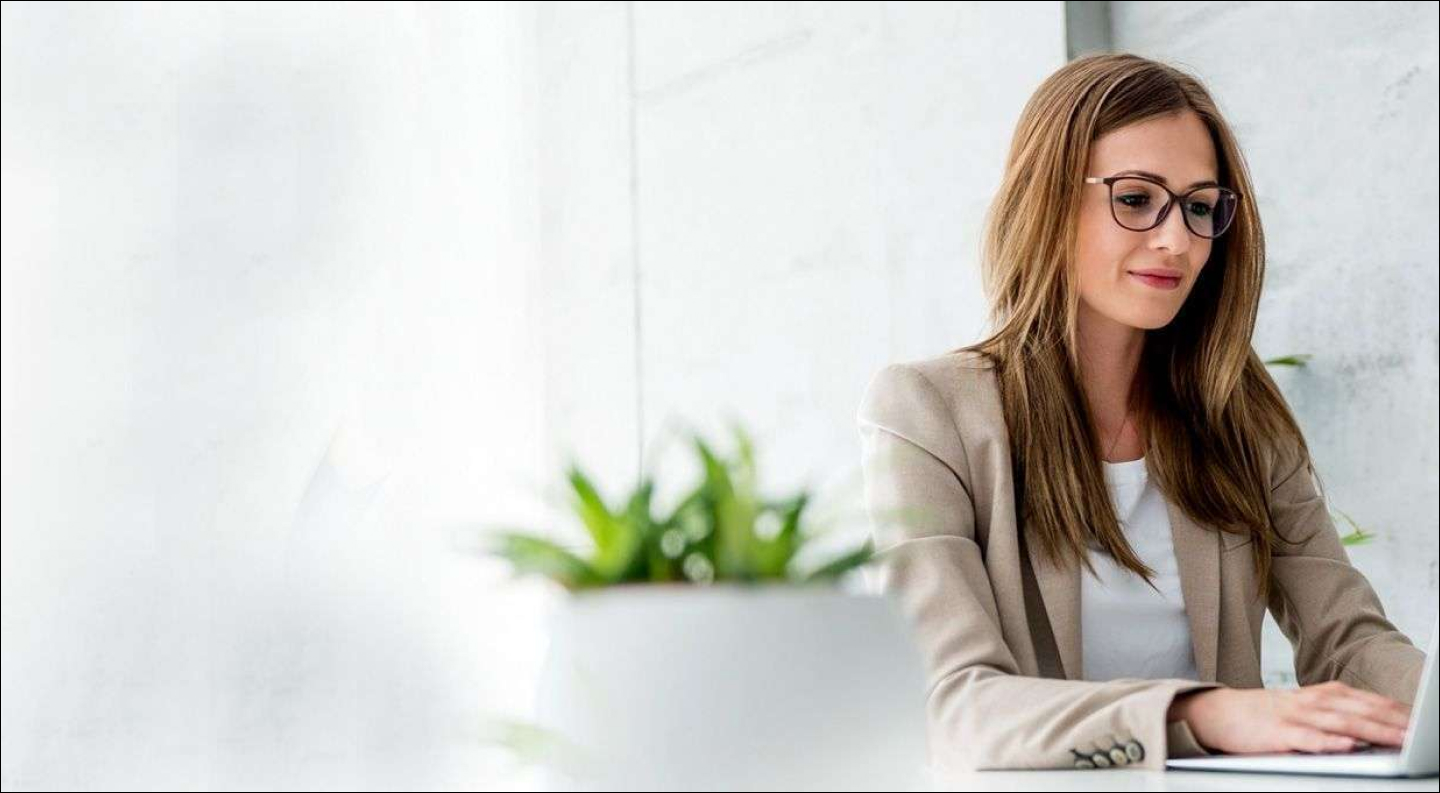
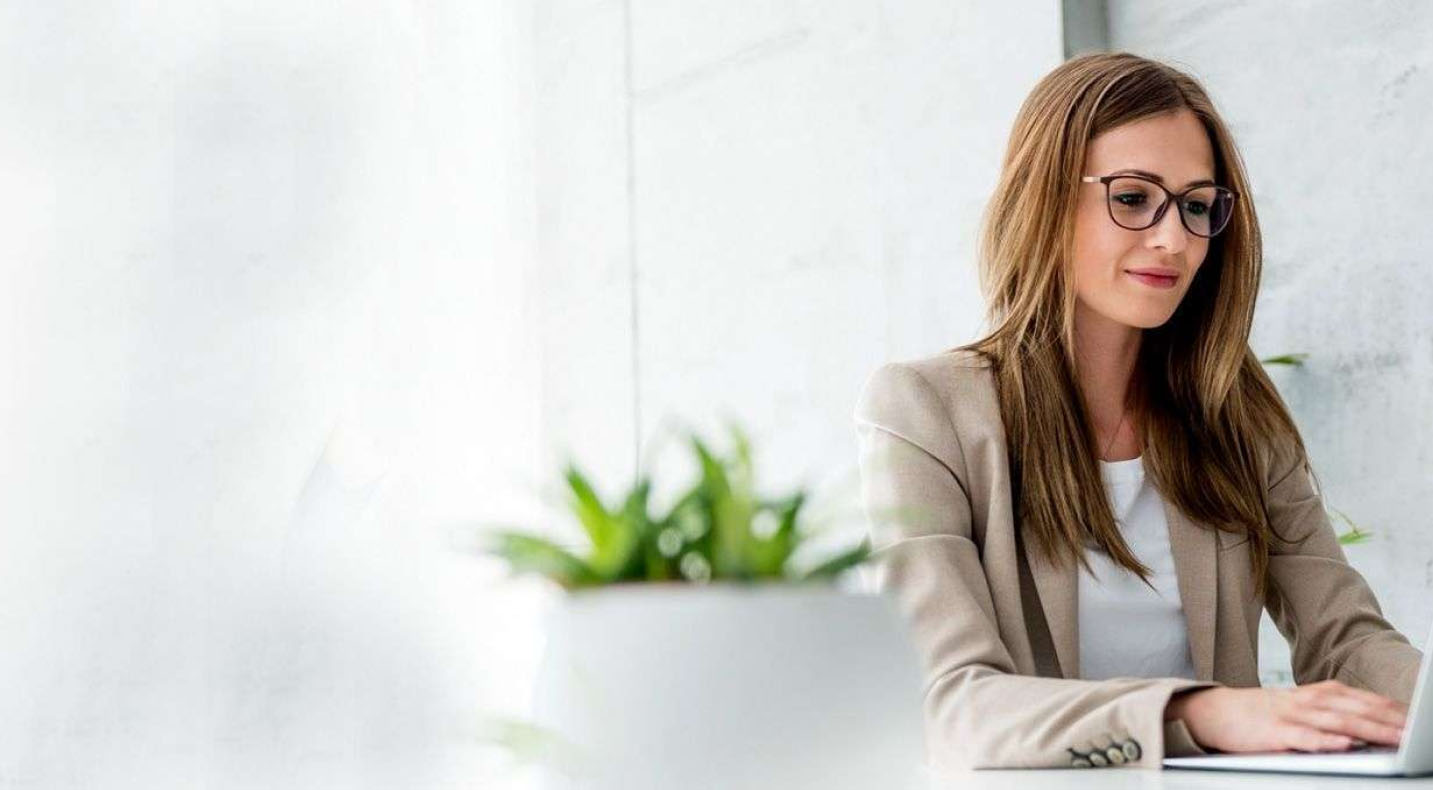
container changes

Changed region(s): [[0.6448, 0.0608, 1.0, 1.0], [0.7369, 0.0, 0.7676, 0.0608], [0.5834, 0.6987, 0.6141, 0.7291]]

diff --git a/src/scss/_landing.scss b/src/scss/_landing.scss
@@ -3,11 +3,11 @@ body {
 }
 
 .container {
-
+    max-width: 1046px;
+    margin: 0 auto;
 }
 
 .header-main {
-    max-width: 1046px;
     background: url('../images/design/cover-hero.jpg') center/cover no-repeat;
 
     min-height: 100vh;
@@ -90,7 +90,6 @@ body {
     .main_content {
         .title {
             text-align: center;
-            margin: 0 auto;
             color: #252B42;
             text-shadow: 0px 4px 4px rgba(0, 0, 0, 0.25);
             font-weight: 700;
@@ -106,7 +105,8 @@ body {
         }
     }
     .row {
-        margin: 50px auto 80px;
+        margin-top: 50px;
+        margin-bottom: 80px;;
         display: flex;
         padding: 0px;
         gap: 30px;

diff --git a/src/scss/app.scss b/src/scss/app.scss
@@ -15,6 +15,9 @@
 /* Mixins, helpers and functions */
 @import 'base/mixins';
 
+/* buttons */
+@import 'base/buttons';
+
 /* Vendor */
 
 /* Components */
@@ -24,3 +27,4 @@
 
 /* Landing styles */
 @import 'landing';
+
